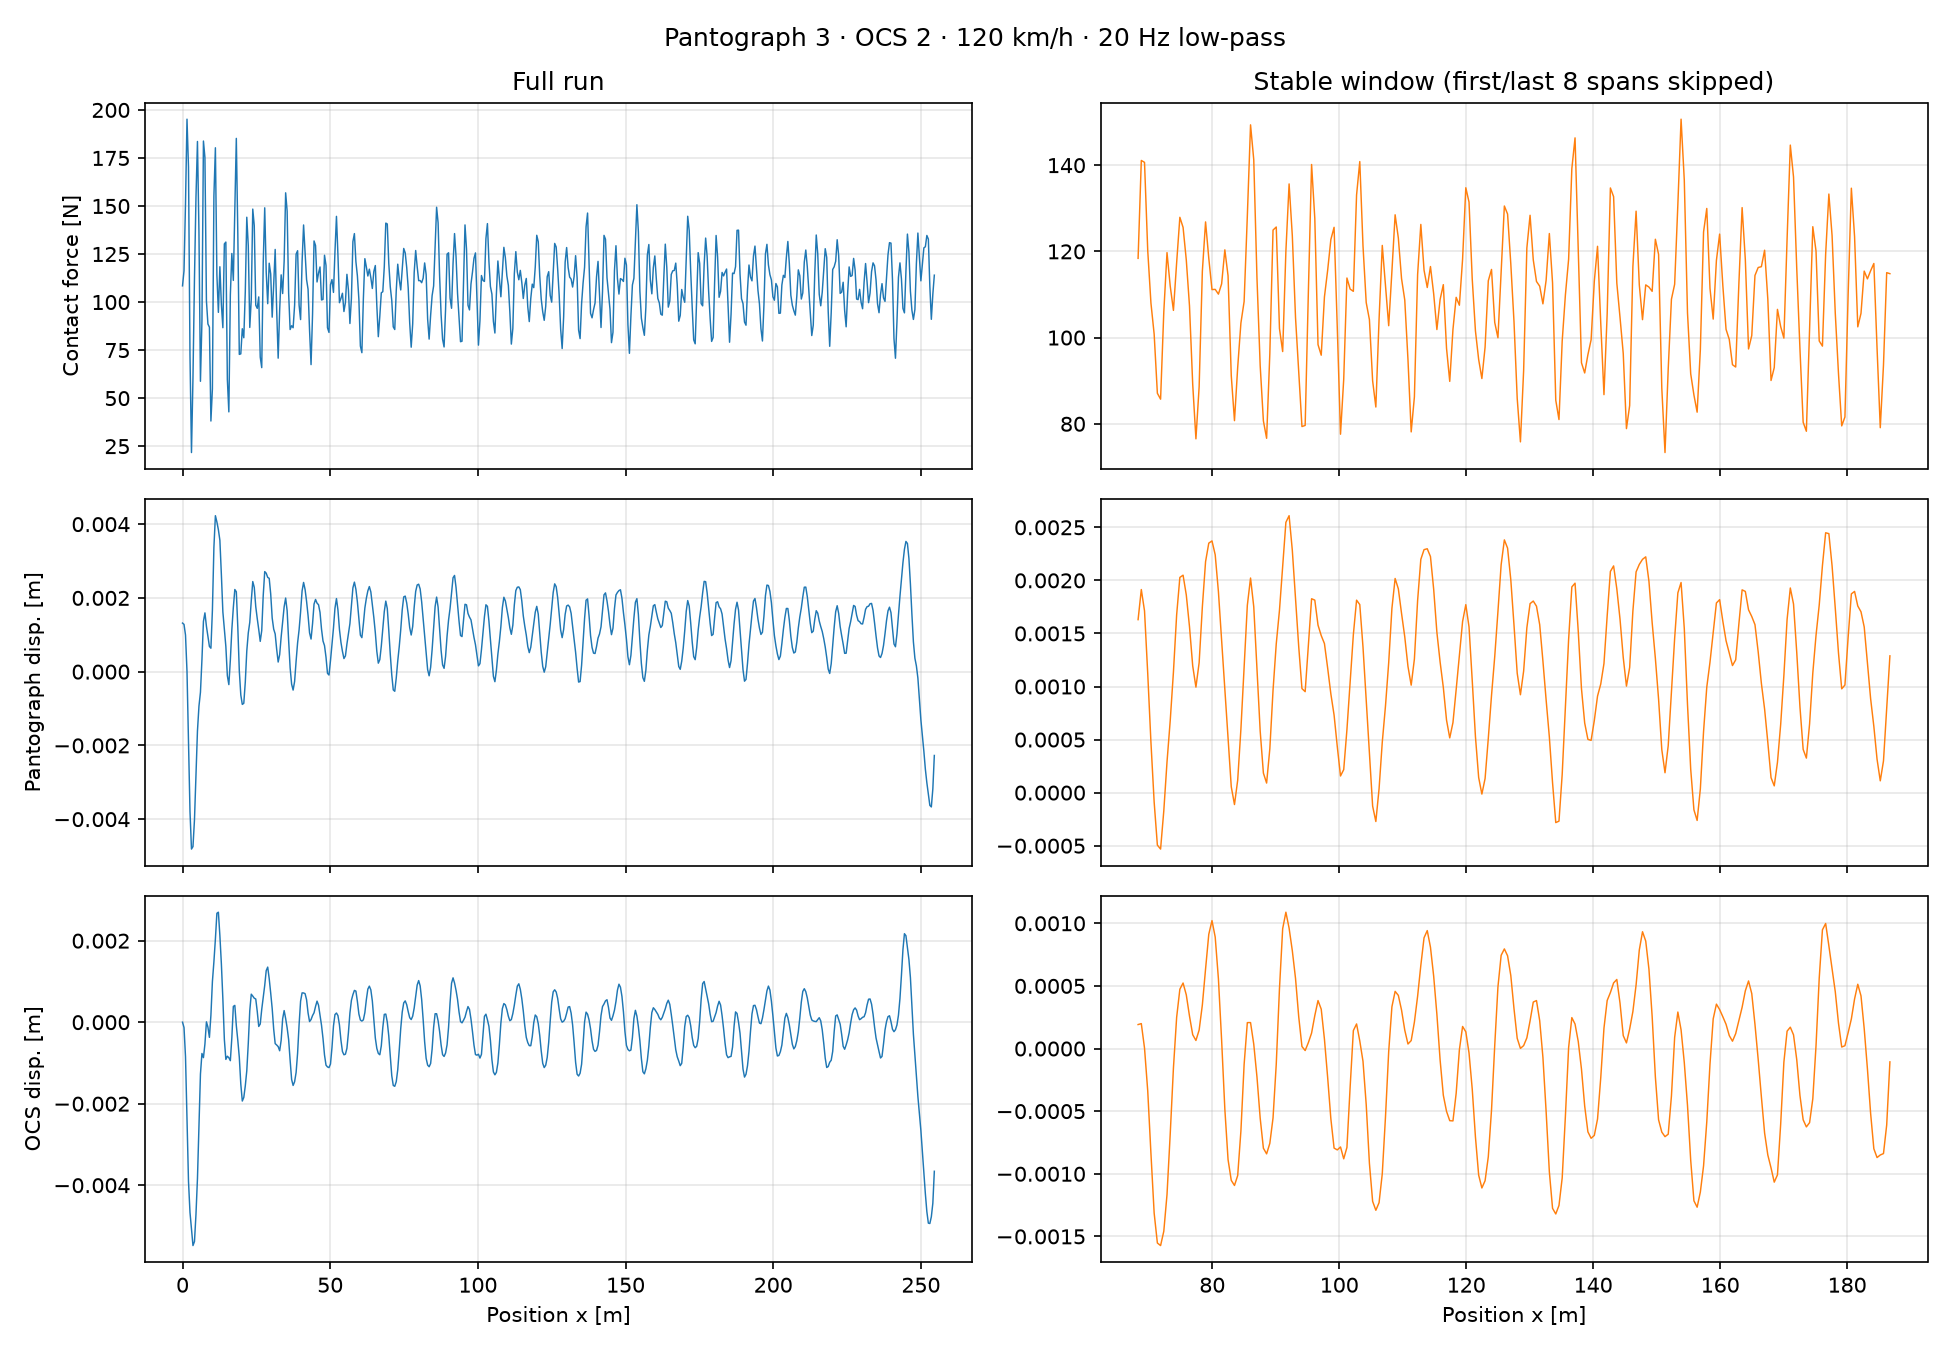
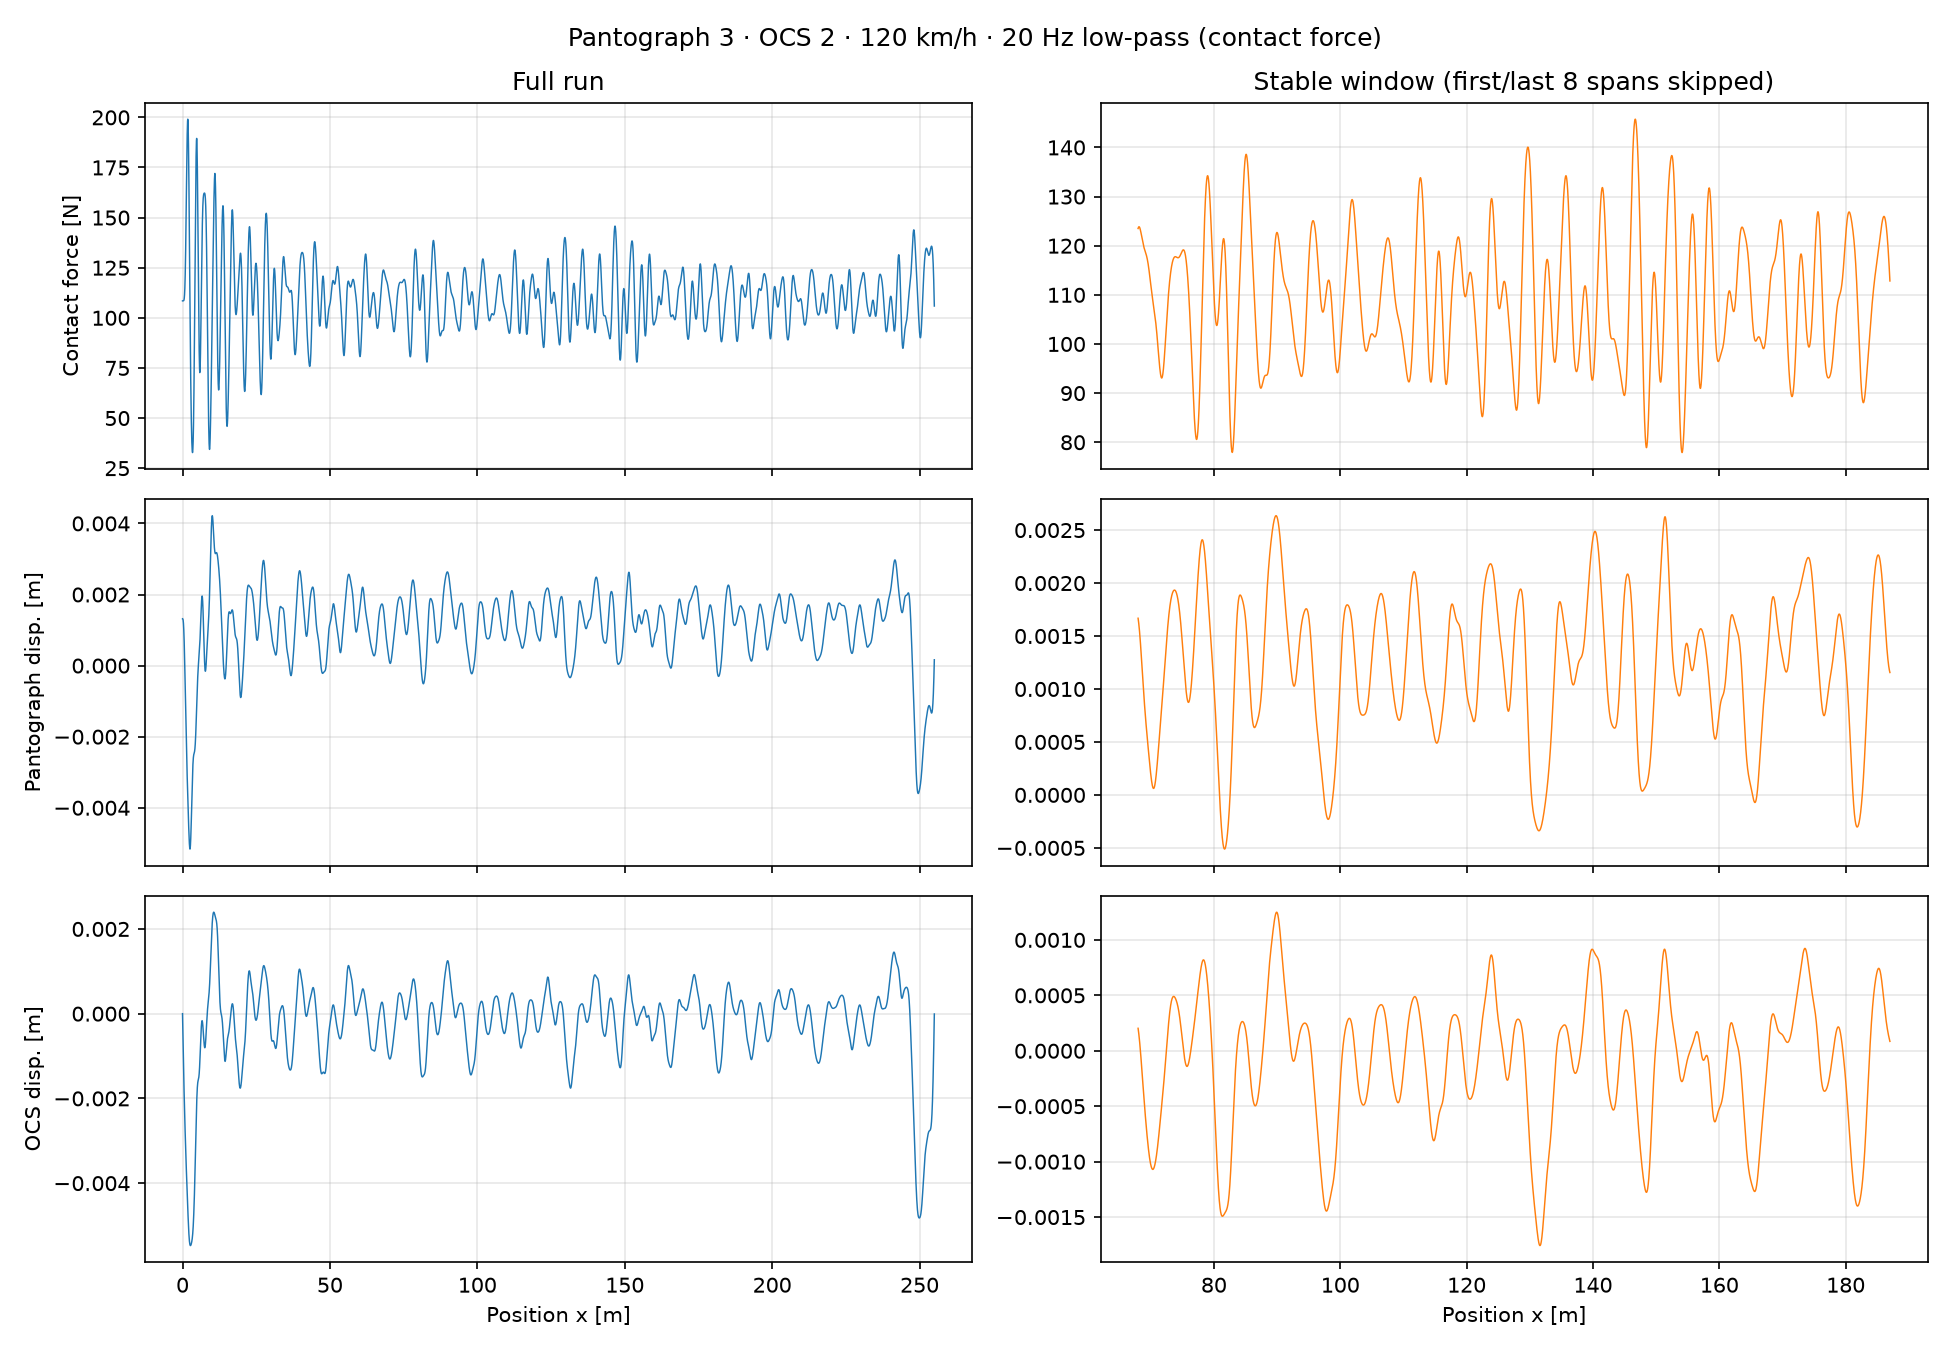
小修改

diff --git a/procs.py b/procs.py
@@ -114,7 +114,7 @@ def compute_busbar_positions(LS: float, l_mz: float, offset: float = BUSBAR_JOIN
 
 
 def lowpass_filter(sig: np.ndarray, fs: float, fc: float = LOWPASS_HZ, order: int = LOWPASS_ORDER) -> np.ndarray:
-    """6 阶 Butterworth 20 Hz 低通滤波；单向滤波保持标准规定的幅频特性。
+    """Butterworth 低通滤波（阶数/截止频率由参数决定，默认 LOWPASS_ORDER / LOWPASS_HZ）；单向滤波保持标准规定的幅频特性。
     使用 sosfilt_zi 将初始状态设为与 sig[0] 匹配的稳态，避免零初始条件引起的启动振铃。
     """
     sos = butter(order, fc, fs=fs, output='sos')
@@ -269,10 +269,10 @@ def run_simulation(
     K_cat_inv = np.linalg.inv(K_cat)
     c_cat_mean = np.trace(K_cat_inv) / (rhoA * LS)
     S_p = 1.0 / KS + 1.0 / k1 + 1.0 / k2 + c_cat_mean
-    i_start_pre = np.searchsorted(x_vec, N_SKIP_SPANS * L, side='left')
-    i_end_pre = np.searchsorted(x_vec, LS - N_SKIP_SPANS * L, side='right')
-    if i_start_pre < i_end_pre:
-        u_mean = np.mean(np.array([phi_at(x) @ q_static for x in x_vec[i_start_pre:i_end_pre]]))
+    i_start = np.searchsorted(x_vec, N_SKIP_SPANS * L, side='left')
+    i_end = np.searchsorted(x_vec, LS - N_SKIP_SPANS * L, side='right')
+    if i_start < i_end:
+        u_mean = np.mean(np.array([phi_at(x) @ q_static for x in x_vec[i_start:i_end]]))
     else:
         # 跨数不足时退化为全线均值，避免空窗口导致 NaN
         u_mean = np.mean(np.array([phi_at(x) @ q_static for x in x_vec]))
@@ -387,14 +387,12 @@ def run_simulation(
         if newton_failures:
             print(f'  Warning: Newton/active-set did not converge at {newton_failures} step(s)')
 
-    # 低通滤波开关: 启用时统计与绘图全部使用滤波后信号, 关闭时为原始信号.
+    # 低通滤波开关: 仅对接触力滤波, 弓头/接触网位移保持原始信号.
     # 例外：离线率必须用未滤波的原始接触力统计，低通会把 F=0 的采样平滑为非零，导致离线被掩盖。
     contact_force_raw = contact_force  # lowpass_filter 返回新数组, 此引用零拷贝保留原始信号
     if lowpass:
         fs = 1.0 / dt
         contact_force = lowpass_filter(contact_force, fs)
-        y_pantograph = lowpass_filter(y_pantograph, fs)
-        y_rigid_overhead_contact_system = lowpass_filter(y_rigid_overhead_contact_system, fs)
 
     def compute_stats(fc_arr):
         if len(fc_arr) == 0:
@@ -408,8 +406,6 @@ def run_simulation(
 
     stats_full = compute_stats(contact_force)
 
-    i_start = np.searchsorted(x_vec, N_SKIP_SPANS * L, side='left')
-    i_end = np.searchsorted(x_vec, LS - N_SKIP_SPANS * L, side='right')
     stable_label = f'first/last {N_SKIP_SPANS} spans skipped'
     contact_force_stable = contact_force[i_start:i_end]
     x_stable = x_vec[i_start:i_end]
@@ -447,6 +443,10 @@ def run_simulation(
         'stats_stable_raw': stats_stable_raw,
         'stable_label': stable_label,
         'lowpass_hz': LOWPASS_HZ if lowpass else None,
+        'pantograph': pantograph,
+        'rigid_overhead_contact_system': rigid_overhead_contact_system,
+        'speed_kmh': speed_kmh,
+        'newton_failures': newton_failures,
         'elapsed_s': elapsed_s,
         'solve_time_s': solve_time,
     }
@@ -454,16 +454,23 @@ def run_simulation(
 
 def plot_results(
     results: dict,
-    pantograph: int = PANTOGRAPH,
-    rigid_overhead_contact_system: int = RIGID_OVERHEAD_CONTACT_SYSTEM,
-    speed_kmh: float = SPEED_KMH,
+    pantograph: int | None = None,
+    rigid_overhead_contact_system: int | None = None,
+    speed_kmh: float | None = None,
     out_dir: str | Path = './result/pc_plots',
     show: bool = True,
 ):
     """绘制接触力、弓头位移、接触网位移（全程 + 稳定段）。"""
+    pantograph = pantograph if pantograph is not None else results.get('pantograph', PANTOGRAPH)
+    rigid_overhead_contact_system = (
+        rigid_overhead_contact_system
+        if rigid_overhead_contact_system is not None
+        else results.get('rigid_overhead_contact_system', RIGID_OVERHEAD_CONTACT_SYSTEM)
+    )
+    speed_kmh = speed_kmh if speed_kmh is not None else results.get('speed_kmh', SPEED_KMH)
     stable_label = results.get('stable_label', f'first/last {N_SKIP_SPANS} spans skipped')
     lp_hz = results.get('lowpass_hz')
-    lp_note = f' · {lp_hz:.0f} Hz low-pass' if lp_hz else ''
+    lp_note = f' · {lp_hz:.0f} Hz low-pass (contact force)' if lp_hz else ''
 
     col_titles = ('Full run', f'Stable window ({stable_label})')
     xlabel = 'Position x [m]'
@@ -510,7 +517,7 @@ def plot_initial_catenary_shape(
     out_dir: str | Path = './result/pc_plots',
     show: bool = True,
 ):
-    """绘制刚性接触网初始静态位形，标出吊点与跨中接头位置。"""
+    """绘制刚性接触网初始静态位形，标出吊点与汇流排接头位置。"""
     L, N, rhoA, EI, _KEQ, MEQ, MZ, L_MZ = rigid_overhead_contact_system_params(rigid_overhead_contact_system, N_spans)
     LS = L * N
 
@@ -541,7 +548,7 @@ def plot_initial_catenary_shape(
     sol = np.linalg.solve(KKT, np.concatenate([F_gravity, np.zeros(n_sup)]))
     q_static = sol[:NM_plot]
 
-    x_fine = np.linspace(0, LS, 2000)
+    x_fine = np.linspace(0, LS, 5000)
     phi_fine = norm_factor * np.sin(np.outer(modes * np.pi / LS, x_fine))
     u_static = phi_fine.T @ q_static
 
@@ -556,7 +563,7 @@ def plot_initial_catenary_shape(
     ax.plot(x_fine, u_static * 1e3, lw=1.2, color='C0', label='Catenary vertical disp.')
 
     ax.scatter(all_sup, u_sup_all * 1e3, color='red', s=50, zorder=5, marker='o', label='Suspension point')
-    ax.scatter(x_mz, u_mz * 1e3, color='green', s=50, zorder=5, marker='^', label='Mid-span joint')
+    ax.scatter(x_mz, u_mz * 1e3, color='green', s=50, zorder=5, marker='^', label='Busbar joint')
 
     ax.set_xlabel('Position x [m]')
     ax.set_ylabel('Vertical disp. [mm]')
